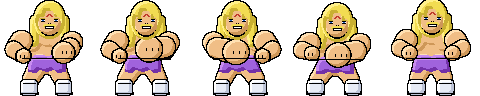
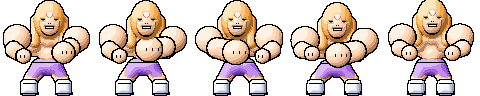
Render Greyson up to Computah's level
Shading up, anatomy stayed out: six-tone ramps and smooth gradients
across each mass, so his arms round off because the tones turn, not
because muscle boundaries are drawn on him. He lands at 27 colours
against Computah's 22 and Mason's 15, so the pair now read as the same
production level.

Regenerating caught two broken poses. The hanging-arm tuck that builds
his V taper was being applied to the hit and defeat, pinning the flinch
arms against his body and stopping the defeat's arms reaching the floor
as he sank - so he shrugged instead of collapsing. It now only tucks an
arm that is genuinely hanging. And phase-2's snapped antenna was pinned
to hardcoded coordinates and floated clear of his fist; it now derives
from the fist, so he grips it in every frame.

diff --git a/art_source/greyson_computah/greyson.py b/art_source/greyson_computah/greyson.py
@@ -1,10 +1,11 @@
 """Greyson - 96x96 frames, baseline row 95, meant for scale 3.
 
-Drawn in the flat cartoon style of Assets/Characters/Mason/mason_sheet.png:
-big simple masses, pure-black outlines all the way round, three flat tones per
-material (base + one highlight crescent + one shadow crescent) and no anatomy
-at all.  He reads as an enormous bodybuilder the way a cartoon does - by being
-huge and wide - not by having muscles drawn on him.
+Big simple masses, pure-black outlines all the way round, and six-tone ramps
+shaded smoothly across each mass so the volumes round off the way Computah's
+chassis does.  Deliberately NO anatomy: no pec separation, no ab grid, no
+obliques, serratus, striations or bicep peaks.  He reads as an enormous
+bodybuilder from the silhouette - an 82 px delt shelf tapering to 38 px - not
+from muscles drawn onto him.
 
 Identity kept from the portrait: long blonde mane, blue eyes, blonde moustache,
 the three red forehead furrows, purple trunks, white wrestling boots.
@@ -23,26 +24,29 @@ OUTLINE = "#000000"    # Mason uses pure black, and plenty of it
 
 # three flat tones per material: [highlight, base, shadow, deep]
 PAL = {
-    "skin":   ["#FFE0B2", "#F0BE86", "#CE9758", "#9E6C3A"],
-    "hair":   ["#FFF08A", "#F2DC52", "#C9B032", "#8E7A20"],
-    "trunk":  ["#C88CF0", "#A063DC", "#7331A8", "#4C1F74"],
-    "boot":   ["#FFFFFF", "#E8ECF6", "#BEC5D8", "#8C93AA"],
-    "rage":   ["#FFC0A0", "#F08050", "#C24E28", "#8A3018"],
-    "steel":  ["#E8EFF8", "#B8C6D6", "#7E8DA2", "#4E5A6C"],
+    "skin":   ["#FFF2E2", "#FFDCBE", "#F6CCA8", "#DCA57C", "#B07E58", "#835438"],
+    "hair":   ["#FFE6BC", "#FFC77E", "#F2A94E", "#CE8436", "#A16224", "#6E4116"],
+    "trunk":  ["#DEB8FA", "#C08CEE", "#A063DC", "#7E42B8", "#5A288A", "#3A1660"],
+    "boot":   ["#FFFFFF", "#F2F6FE", "#DCE2F0", "#BCC4DA", "#949CB8", "#6A7290"],
+    "rage":   ["#FFDCC2", "#FFB088", "#F08050", "#C85630", "#94381C", "#63220E"],
+    "steel":  ["#F2F8FF", "#D4E0EE", "#B8C6D6", "#94A4B8", "#6E7E94", "#4A5668"],
 }
-HI, BASE, SHA, DEEP = 0, 1, 2, 3
+HI, BASE, SHA, DEEP = 0, 2, 4, 5
 
 FACE_CH = {
-    "K": OUTLINE, "E": "#FFFFFF", "B": "#2F6BCC", "b": "#7FB6F5",
+    "K": OUTLINE, "E": "#FFFFFF", "B": "#4A6E9E", "b": "#8FB2D6",
     "r": "#C0392B", "t": "#FFFFFF", "o": "#3A0F16", "p": "#8E3B45",
-    "S": ("skin", 0), "s": ("skin", 1), "n": ("skin", 1), "m": ("skin", 2),
-    "w": ("skin", 2), "x": ("skin", 3),
-    "H": ("hair", 0), "h": ("hair", 1), "g": ("hair", 1), "d": ("hair", 2),
+    "G": "#F0CC5E", "g2": "#C9A02E",
+    "v": "#CE7A60", "V": "#FFD4BC",
+    "S": ("skin", 0), "s": ("skin", 1), "n": ("skin", 2), "m": ("skin", 3),
+    "w": ("skin", 4), "x": ("skin", 5),
+    "H": ("hair", 0), "h": ("hair", 1), "g": ("hair", 2), "d": ("hair", 3),
 }
 RAGE_CH = dict(FACE_CH)
-RAGE_CH.update({"S": ("rage", 0), "s": ("rage", 1), "n": ("rage", 1),
-                "m": ("rage", 2), "w": ("rage", 2), "x": ("rage", 3),
-                "B": "#FFFFFF", "b": "#FFF0B0", "E": "#FFE8C0"})
+RAGE_CH.update({"S": ("rage", 0), "s": ("rage", 1), "n": ("rage", 2),
+                "m": ("rage", 3), "w": ("rage", 4), "x": ("rage", 5),
+                "B": "#FFFFFF", "b": "#FFF0B0", "E": "#FFE8C0",
+                "v": "#C0392B", "V": "#FF8A6A"})
 
 # 27 wide; local column 13 is the mirror axis (= x 47).  Blank cells keep the
 # flat fill underneath - only the features are authored, Mason-style.
@@ -59,18 +63,18 @@ FACE = [
     "                           ",
     "                           ",
     "                           ",
-    "            rrr            ",   # 10  the three red furrows
-    "           rr rr           ",   # 11
-    "          rr   rr          ",   # 12
-    "                           ",   # 13
+    "         Vv     vV         ",   # 10  two popped forehead veins
+    "         Vv     vV         ",   # 11
+    "          Vv   vV          ",   # 12
+    "           Vv vV           ",   # 13
     "     dddd         dddd     ",   # 14  brows
-    "     KKKK         KKKK     ",   # 15  lash
-    "     EBBE         EBBE     ",   # 16  eyes
-    "     KKKK         KKKK     ",   # 17  lower lid
+    "    GKKKKG  GGG  GKKKKG    ",   # 15  lens top rim + bridge
+    "  GGGEBBEG       GEBBEGGG  ",   # 16  eyes behind the lenses + temples
+    "    GGGGGG       GGGGGG    ",   # 17  lens bottom rim
     "                           ",   # 18
     "            K K            ",   # 19  nostrils
-    "        ggggggggggg        ",   # 20  moustache
-    "       ggggggggggggg       ",   # 21
+    "                           ",   # 20
+    "        ddddddddddd        ",   # 21  thin blonde moustache
     "       gdKKKKKKKKKdg       ",   # 22  mouth
     "         KtttttttK         ",   # 23  teeth
     "         KKKKKKKKK         ",   # 24
@@ -100,6 +104,10 @@ for _c in "Ssnmwx":
     _CLASS[_c] = "skin"
 for _c in "Hhgd":
     _CLASS[_c] = "hair"
+for _c in "G":
+    _CLASS[_c] = "glass"
+for _c in "vV":
+    _CLASS[_c] = "vein"
 
 
 def _check_face():
@@ -481,39 +489,88 @@ def _rig(pose):
     return r
 
 
+def _physique(r, pose=""):
+    """Steroid build.  Flat shading cannot say "shredded", so the silhouette
+    has to: delts and biceps grown, forearms and legs leaner, hips pulled in.
+    The hard V taper itself lives in the torso masses in build()."""
+    # An arm the pose placed on purpose - punching, chambered, flung out in a
+    # flinch, or braced on the floor in a collapse - keeps its authored
+    # position and only gains bulk.  Only a genuinely hanging arm gets tucked
+    # in to make the V.
+    placed = pose.startswith("hit") or pose.startswith("defeat")
+    posed = (r["fore"],) + tuple(r["chamber"])
+    for k in ("armL", "armR"):
+        a = dict(r[k])
+        sgn = -1.0 if a["delt"][0] < AX else 1.0
+        d = a["delt"]
+        dx = 2.5 if placed else 4.5
+        dy = 1.5 if placed else 3.0
+        a["delt"] = (d[0] + dx * sgn, d[1] - dy, d[2] * 1.32, d[3] * 1.30)
+        b = a["bice"]
+        a["bice"] = (b[0] + (1.0 if placed else 2.0) * sgn,
+                     b[1] - (1.0 if placed else 3.0), b[2] * 1.24, b[3] * 1.22)
+        u = a["uarm"]
+        f = a["farm"]
+        fi = a["fist"]
+        if k in posed or placed:
+            # a punching or chambered arm keeps its authored geometry: the
+            # contact points are wired against it
+            lift = 1.5 if placed else 3.0
+            a["uarm"] = ((u[0][0] + (2.5 if placed else 4.5) * sgn, u[0][1] - lift),
+                         u[1], u[2] * 1.22, u[3] * 0.98)
+            a["farm"] = (f[0], f[1], f[2] * 0.96, f[3] * 0.94)
+            a["fist"] = fi
+        else:
+            # a hanging arm: shoulder out and high, forearm tucked hard in to
+            # the hip and ending above the trunks, so the whole outline is a V
+            a["uarm"] = ((u[0][0] + 4.5 * sgn, u[0][1] - 3.0),
+                         (u[1][0] + 0.5 * sgn, u[1][1] - 4.0), u[2] * 1.22, u[3] * 1.02)
+            a["farm"] = ((f[0][0] + 0.5 * sgn, f[0][1] - 4.0),
+                         (f[1][0] - 5.5 * sgn, f[1][1] - 5.5), f[2] * 1.0, f[3] * 0.92)
+            a["fist"] = (fi[0] - 8.0 * sgn, fi[1] - 5.5, fi[2] * 0.94, fi[3] * 0.94)
+        r[k] = a
+    for k in ("legL", "legR"):
+        g = dict(r[k])
+        t = g["thigh"]
+        g["thigh"] = ((t[0][0], t[0][1] + 3.0), t[1], t[2] * 0.78, t[3] * 0.84)
+        cf = g["calf"]
+        g["calf"] = (cf[0], cf[1], cf[2] * 0.82, cf[3] * 0.86)
+        r[k] = g
+    r["trunk_y"] = (r["trunk_y"][0] + 4.0, r["trunk_y"][1] + 4.0)
+    return r
+
+
 # ---------------------------------------------------------------------------
-def _mass(c, shape, mat, prio, lo=2.6, hi=2.0):
-    """One flat cartoon mass: base fill, a lit crescent up-left, a shadow
-    crescent down-right.  Three tones, no gradient, no modelling."""
-    c.add(shape, mat, prio=prio, flat=BASE)
-    if hi:
-        c.add(Sub(shape, Translate(shape, hi, hi)), mat, prio=prio, flat=HI)
-    if lo:
-        c.add(Sub(shape, Translate(shape, -lo, -lo)), mat, prio=prio, flat=SHA)
+def _mass(c, shape, mat, prio, lo=2.6, hi=2.0, wrap=0.56, amb=0.10):
+    """One big simple mass, shaded smoothly across its surface with the full
+    six-tone ramp.  The shape is still a plain blob - the tones turn it from
+    lit to shadow, and nothing is ever drawn ON it to suggest muscle."""
+    c.add(shape, mat, prio=prio, wrap=wrap, amb=amb)
 
 
 def build(pose="hero", hair=None):
     rage = pose == "phase2" or pose.startswith("p2_")
     mat = "rage" if rage else "skin"
     c = Canvas(W, H, PAL, OUTLINE)
-    r = _rig(pose)
+    r = _physique(_rig(pose), pose)
     if hair:
         r["hair"] = hair
     L = r["lean"]
     B = r["body_dy"]
     hx, hy, hrx, hry = r["head"]
-    hrx *= 1.17                                  # cartoon head: wider
+    hrx *= 1.10                                  # lean cartoon head
     hry *= 1.04
     ty0, ty1 = r["trunk_y"]
     ch = r.get("chest_ry", 0.0)
 
     # ---- one torso mass -------------------------------------------------
-    torso = Union([Ellipse(AX + L * .7, 41 + B, 21.5, 10.5 + ch),
-                   Ellipse(AX - 13.5 + L * .7, 48 + B, 11.5, 11.5),
-                   Ellipse(AX + 13.5 + L * .7, 48 + B, 11.5, 11.5),
-                   Ellipse(AX + L, 55 + B, 12.0, 9.5),
-                   Ellipse(AX + L, 61 + B, 9.5, 6.5),
-                   Ellipse(AX + L, 66 + B, 14.5, 8.5)], k=3.2)
+    # shoulders 54 px across, waist 16 - the taper IS the character
+    torso = Union([Ellipse(AX + L * .7, 42 + B, 22.0, 9.5 + ch),
+                   Ellipse(AX - 15.0 + L * .7, 46 + B, 12.0, 10.5),
+                   Ellipse(AX + 15.0 + L * .7, 46 + B, 12.0, 10.5),
+                   Ellipse(AX + L, 53 + B, 12.5, 8.0),
+                   Ellipse(AX + L, 60 + B, 7.5, 7.0),
+                   Ellipse(AX + L, 67 + B, 9.5, 8.0)], k=1.8)
     _mass(c, torso, mat, 1, lo=3.0, hi=2.4)
 
     tp = r["trap"]
@@ -541,7 +598,7 @@ def build(pose="hero", hair=None):
         (AX + 11, ty1 + 3), (AX + 7.0, ty1), (AX, ty1 + 2),
         (AX - 7.0, ty1), (AX - 11, ty1 + 3),
         (tx - 2, ty1 + 2), (tx - 2, ty0 + 5)], round_r=6)
-    trunks = Clip(Union([Ellipse(AX + L, 66 + B, 15.5, 9.0)] + legs, k=2.4), trunk_poly)
+    trunks = Clip(Union([Ellipse(AX + L, 67 + B, 10.5, 8.5)] + legs, k=2.4), trunk_poly)
     _mass(c, trunks, "trunk", 4, lo=3.0, hi=2.2)
 
     # ---- boots ----------------------------------------------------------
@@ -580,11 +637,11 @@ def build(pose="hero", hair=None):
     # ---- head + mane ----------------------------------------------------
     head = Union([Ellipse(hx, hy, hrx, hry),
                   Ellipse(hx, hy + 4.0, hrx - 2.2, hry - 3.0)], k=2.0)
-    _mass(c, head, mat, 16, lo=3.0, hi=2.4)
+    _mass(c, head, mat, 16, wrap=0.50, amb=0.16)
     crown, falls = _hair(r["hair"], hx, hy, hrx, hry)
     if falls is not None:
-        _mass(c, falls, "hair", 5, lo=3.0, hi=2.4)
-    _mass(c, crown, "hair", 18, lo=3.0, hi=2.4)
+        _mass(c, falls, "hair", 5, wrap=0.60, amb=0.10)
+    _mass(c, crown, "hair", 18, wrap=0.60, amb=0.10)
 
     # ---- black ink between overlapping masses ---------------------------
     for shp, prio in arm_shapes:
@@ -594,6 +651,10 @@ def build(pose="hero", hair=None):
         b = r[key]["boot"]
         c.contour(RoundRect(b[0], b[1], b[2], b[3], r=4.0, round_r=6.5), 1.2,
                   color=OUTLINE, below_prio=5)
+
+    c.occlude(strength=2, reach=1)
+    c.rim(1, mats=(mat, "hair", "trunk", "boot"))
+    c.despeckle()
 
     _details(c, r, L, mat, ty0, ty1, B)
     if rage:
@@ -634,8 +695,16 @@ def _details(c, r, L, mat, ty0, ty1, B=0.0):
     """The only internal lines Mason's style allows: a waistband, a sole, a
     couple of knuckles, one crease where a limb folds."""
     ty0, ty1 = int(round(ty0)), int(round(ty1))
-    c.raw_px([(x, ty0 + 1) for x in range(22, 74)], OUTLINE)
-    c.shade_px([(x, ty0 + 2) for x in range(22, 74)], -1, "trunk")
+    c.ink_px([(x, ty0 + 1) for x in range(18, 78)], OUTLINE, mats=("trunk",))
+    c.shade_px([(x, ty0 + 2) for x in range(18, 78)], -1, "trunk")
+
+    # the one concession to vascularity: a vein down each forearm
+    for key in ("armL", "armR"):
+        a = r[key]
+        (ex, ey), (fx2, fy2) = a["farm"][0], a["farm"][1]
+        vx0, vy0 = ex + (fx2 - ex) * 0.25, ey + (fy2 - ey) * 0.25
+        vx1, vy1 = ex + (fx2 - ex) * 0.80, ey + (fy2 - ey) * 0.80
+        c.shade_px(polyline([(vx0, vy0), (vx1 - 1.5, vy1)]), 1, mat)
 
     for key in ("legL", "legR"):
         b = r[key]["boot"]
@@ -685,13 +754,15 @@ def _out(face):
 
 
 def _rage_extras(c, r):
-    """Computah's snapped antenna clenched in his screen-left fist"""
-    rod = polyline([(13, 76), (9, 84), (7, 90)])
+    """Computah's snapped antenna, clenched in his screen-left fist"""
+    fx, fy = r["armL"]["fist"][0], r["armL"]["fist"][1]
+    rod = polyline([(fx - 4.5, fy + 4.0), (fx - 9.0, fy + 13.0), (fx - 11.5, fy + 20.0)])
     for (x, y) in rod:
-        c.set_px([(x, y)], "steel", 1)
-        c.set_px([(x + 1, y)], "steel", 2)
-    c.raw_px([(6, 91), (7, 91), (6, 92), (7, 92)], "#C0392B")
-    c.raw_px([(6, 91)], "#FF8A7A")
+        c.set_px([(x, y)], "steel", 2)
+        c.set_px([(x + 1, y)], "steel", 4)
+    bx, by = int(round(fx - 12.5)), int(round(fy + 22.0))
+    c.raw_px([(bx, by), (bx + 1, by), (bx, by + 1), (bx + 1, by + 1)], "#C0392B")
+    c.raw_px([(bx, by)], "#FF8A7A")
     c.raw_px([(int(AX) - 9, 28), (int(AX) - 9, 29)], "#9FE0FF")
 
 

diff --git a/art_source/greyson_computah/pixlib.py b/art_source/greyson_computah/pixlib.py
@@ -453,6 +453,19 @@ class Canvas(object):
                 self.lvl[y][x] = lvl
                 self.prio[y][x] = 99
 
+    def ink_px(self, pts, color, mats=None):
+        """Ink pixels black ONLY where an existing material sits, so a garment
+        seam can never draw out over the background."""
+        c = _hex(color)
+        for (x, y) in pts:
+            x, y = int(round(x)), int(round(y))
+            if not (0 <= x < self.w and 0 <= y < self.h):
+                continue
+            m = self.mat[y][x]
+            if m is None or (mats and m not in mats):
+                continue
+            self.raw[y][x] = c
+
     def raw_px(self, pts, color):
         c = _hex(color)
         for (x, y) in pts:
